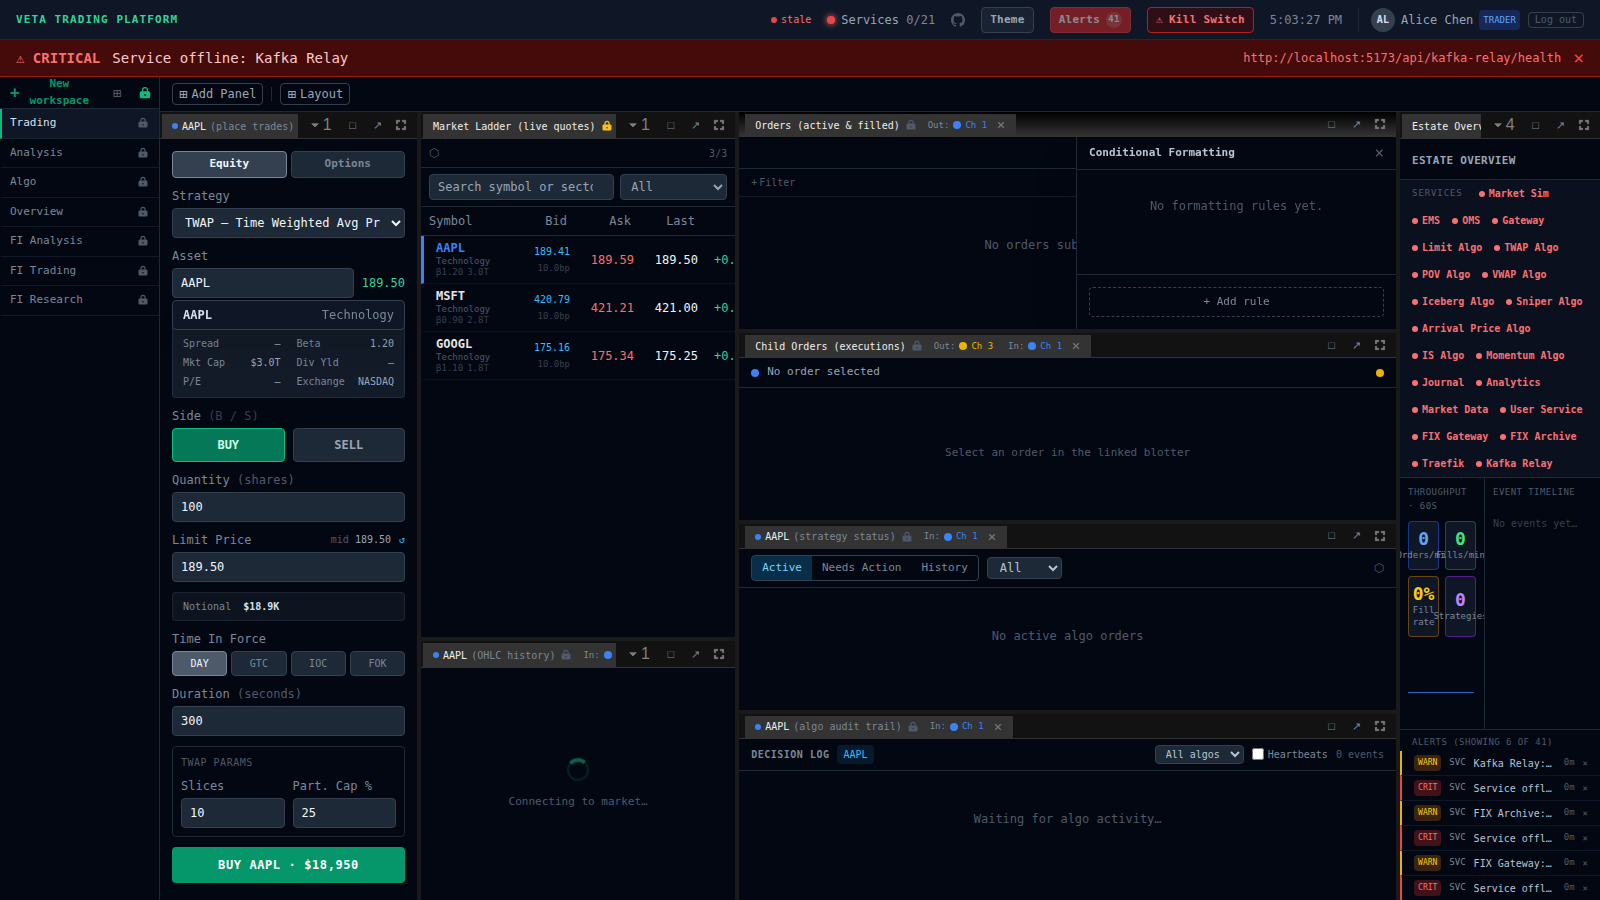
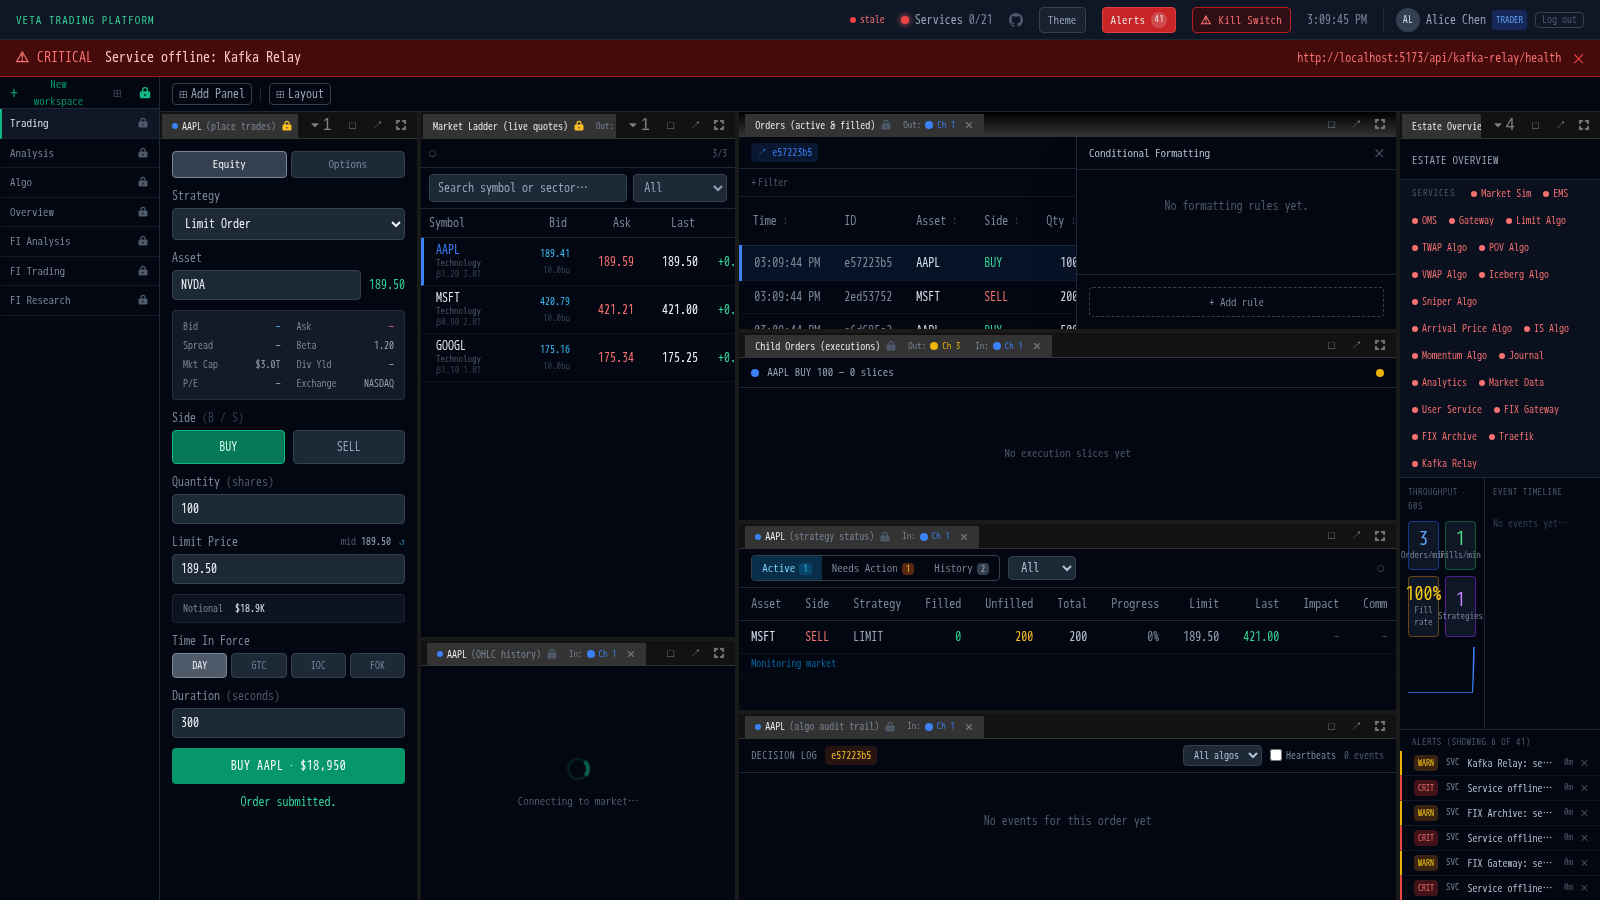
fix(screenshots): populate blotter before opening CF dialog in screenshot 09
The column formatting screenshot was showing an empty blotter. Now submits
three orders (AAPL filled, MSFT executing, NVDA expired) first so the
dialog has a populated table as context.

diff --git a/frontend/tests/screenshots.spec.ts b/frontend/tests/screenshots.spec.ts
@@ -277,6 +277,33 @@ test("screenshot: column formatting (CF rules)", async ({ page }) => {
   app.gateway.sendMarketUpdate(PRICES, VOLUMES);
   await page.waitForTimeout(400);
 
+  const ticket = await app.getOrderTicket();
+
+  const order1Promise = app.gateway.nextOutbound("submitOrder");
+  await ticket.fillOrder({ asset: "AAPL", side: "BUY", quantity: 500, strategy: "TWAP" });
+  await ticket.submit();
+  const msg1 = await order1Promise;
+  const id1 = (msg1.payload as { clientOrderId: string }).clientOrderId;
+  app.gateway.sendOrderLifecycle(id1, { asset: "AAPL", quantity: 500, limitPrice: PRICES.AAPL, stages: ["submitted", "routed", "filled"] });
+
+  const order2Promise = app.gateway.nextOutbound("submitOrder");
+  await ticket.fillOrder({ asset: "MSFT", side: "SELL", quantity: 200, strategy: "LIMIT" });
+  await ticket.submit();
+  const msg2 = await order2Promise;
+  const id2 = (msg2.payload as { clientOrderId: string }).clientOrderId;
+  app.gateway.sendOrderLifecycle(id2, { asset: "MSFT", quantity: 200, limitPrice: PRICES.MSFT, stages: ["submitted", "routed"] });
+
+  const order3Promise = app.gateway.nextOutbound("submitOrder");
+  await ticket.fillOrder({ asset: "NVDA", side: "BUY", quantity: 100, strategy: "LIMIT" });
+  await ticket.submit();
+  const msg3 = await order3Promise;
+  const id3 = (msg3.payload as { clientOrderId: string }).clientOrderId;
+  app.gateway.sendOrderLifecycle(id3, { asset: "NVDA", quantity: 100, limitPrice: PRICES.NVDA, stages: ["submitted", "expired"] });
+
+  const blotter = await app.getOrderBlotter();
+  await blotter.waitForStatus("filled", 8_000);
+  await page.waitForTimeout(300);
+
   const blotterPanel = await app.panelByTitle(/Orders.*active/i);
   await blotterPanel.getByRole("button", { name: /Format/i }).click();
   await page.getByText("Conditional Formatting").waitFor({ timeout: 5_000 });
